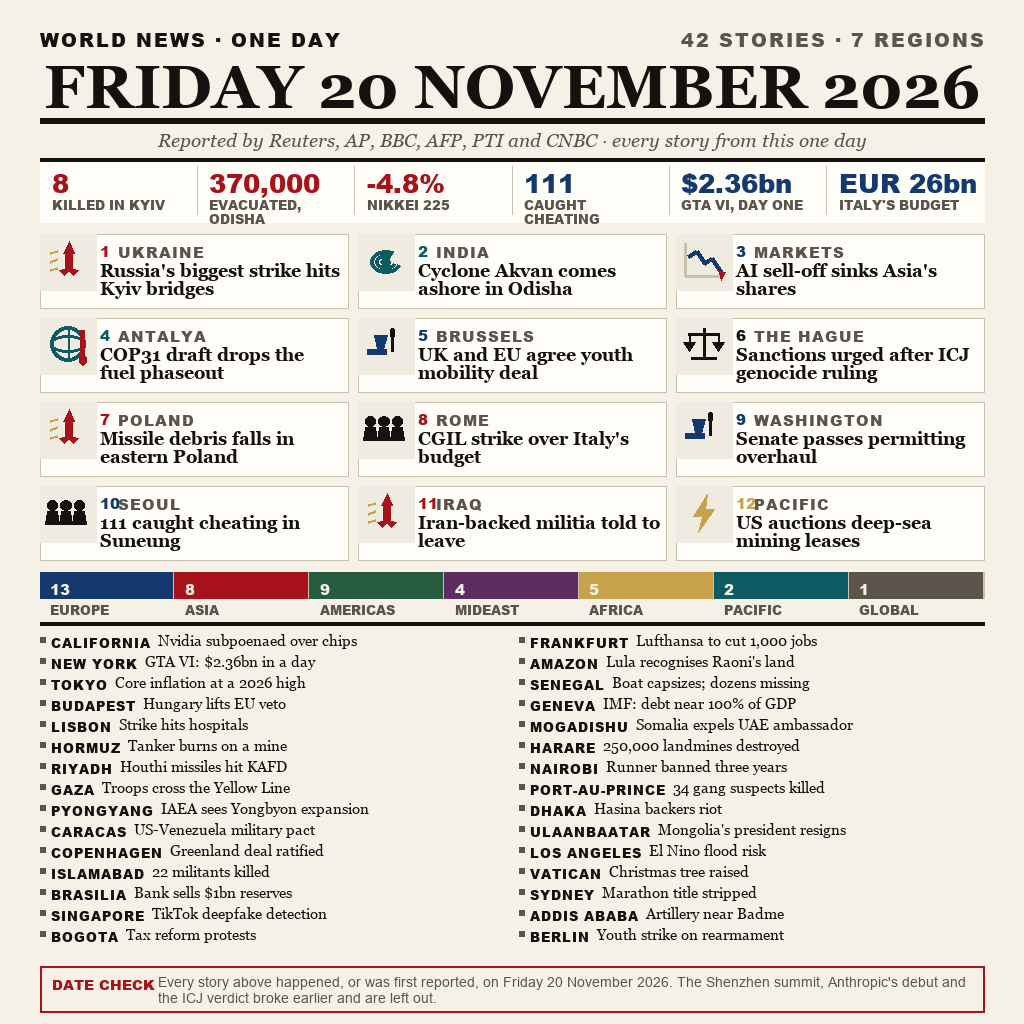
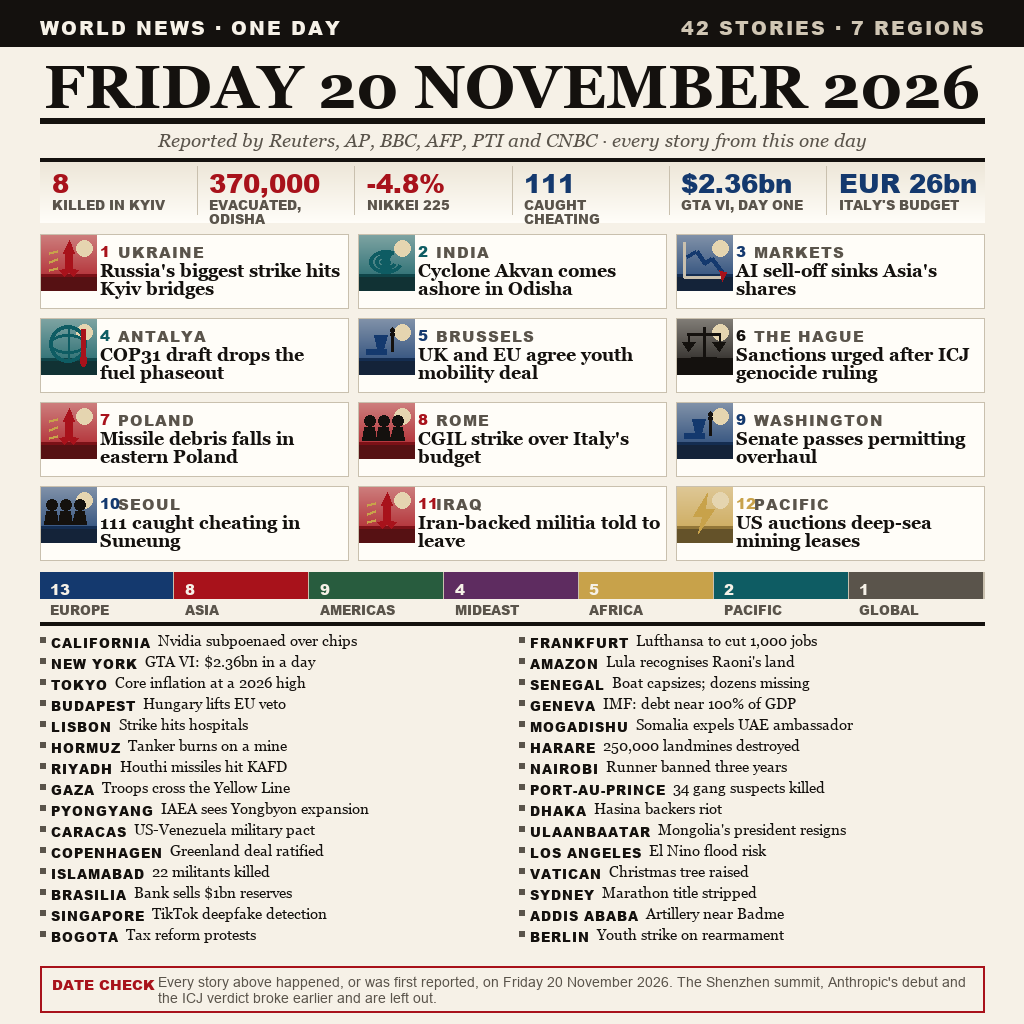
Match the field's tonality: dark masthead, graded tile panels, denser ink; structure unchanged

diff --git a/tools/render.py b/tools/render.py
@@ -96,6 +96,22 @@ def draw_tracked(d, xy, s, f, fill, track=0):
     return x
 
 
+def mix(a, b, t):
+    return tuple(int(a[i] + (b[i] - a[i]) * t) for i in range(3))
+
+
+def vgrad(d, box, top, bottom, steps=None):
+    """Vertical gradient fill inside box (never behind type)."""
+    x0, y0, x1, y1 = box
+    h = max(1, y1 - y0)
+    steps = steps or h
+    for i in range(steps):
+        c = mix(top, bottom, i / max(1, steps - 1))
+        yy = y0 + h * i // steps
+        yy2 = y0 + h * (i + 1) // steps
+        d.rectangle((x0, yy, x1, max(yy + 1, yy2)), fill=c)
+
+
 # ---------------------------------------------------------------- glyphs
 # One flat mark per field, so every story carries a picture rather than a line.
 
@@ -285,10 +301,11 @@ def build() -> Image.Image:
     d = ImageDraw.Draw(img)
 
     f_kick = font(SANS_BK, 19)
-    draw_tracked(d, (M, 26), "WORLD NEWS · ONE DAY", f_kick, INK, track=2)
+    d.rectangle((0, 0, W, 46), fill=INK)
+    draw_tracked(d, (M, 14), "WORLD NEWS · ONE DAY", f_kick, PAPER, track=2)
     right = f"{TOTAL} STORIES · 7 REGIONS"
     rw = text_w(d, right, f_kick, track=2)
-    draw_tracked(d, (W - M - rw, 26), right, f_kick, MUTED, track=2)
+    draw_tracked(d, (W - M - rw, 14), right, f_kick, (208, 198, 180), track=2)
 
     date = "FRIDAY 20 NOVEMBER 2026"
     f_date = fit_line(d, date, SERIF_B, W - 2 * M, 88, 54)
@@ -306,7 +323,7 @@ def build() -> Image.Image:
     bar_top = date_bottom + 44
     bar_h = 64
     cell_w = (W - 2 * M) / len(METRICS)
-    d.rectangle((M, bar_top, W - M, bar_top + bar_h), fill=CARD)
+    vgrad(d, (M, bar_top, W - M, bar_top + bar_h), (236, 229, 214), CARD)
     d.rectangle((M, bar_top, W - M, bar_top + 3), fill=INK)
     f_val = font(SANS_BK, 26)
     f_lab = font(SANS_BK, 13)
@@ -332,8 +349,12 @@ def build() -> Image.Image:
         x = M + c * (tile_w + gap)
         y = tiles_top + r * (tile_h + gap)
         d.rectangle((x, y, x + tile_w, y + tile_h), fill=CARD, outline=STONE, width=1)
-        d.rectangle((x, y, x + 56, y + 56), fill=(240, 235, 224))
-        glyph(d, x + 2, y + 2, 52)
+        vgrad(d, (x + 1, y + 1, x + 56, y + 56), mix(accent, PAPER, 0.48),
+              mix(accent, PAPER, 0.06))
+        d.ellipse((x + 36, y + 6, x + 52, y + 22), fill=mix(PAPER, SAND, 0.35))
+        d.rectangle((x + 1, y + 40, x + 56, y + 56), fill=mix(accent, INK, 0.55))
+        d.rectangle((x + 1, y + 40, x + 56, y + 42), fill=mix(accent, INK, 0.30))
+        glyph(d, x + 1, y + 1, 54)
         d.text((x + 60, y + 6), f"{idx + 1}", font=f_num, fill=accent)
         draw_tracked(d, (x + 78, y + 7), place, f_place, MUTED, track=1)
         hf = fit_block(d, head, SERIF_B, 18, 15, tile_w - 66, 2)
